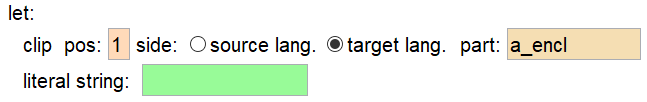
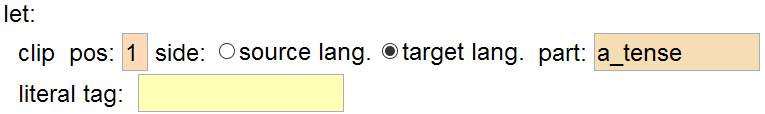
Insert a word How To

Changed region(s): [[0.0, 0.2647, 1.0, 1.0], [0.0, 0.0294, 0.0618, 0.2059]]

diff --git a/Doc/UserDoc.htm b/Doc/UserDoc.htm
@@ -77,9 +77,10 @@
                   <li><a href="#sAttribute">7.1.2&nbsp;How do I use the attribute element in the transfer rules?</a></li>
                   <li><a href="#sPatternMatch">7.1.3&nbsp;How does pattern matching work?</a></li>
                   <li><a href="#sDeleteWord">7.1.4&nbsp;How do I delete a word from the target output? (How do I prevent a source word from being transferred to the target text?)</a></li>
-                  <li><a href="#sDeleteAffix">7.1.5&nbsp;How do I delete an affix?</a></li>
-                  <li><a href="#sCondLogic">7.1.6&nbsp;How so I use conditional logic in a transfer rule? (How do I say if this ... then that?)</a></li>
-                  <li><a href="#sAgreement">7.1.7&nbsp;How do I handle noun agreement? (How do I get a target word or words to agree with a noun?)</a></li>
+                  <li><a href="#sInsertWord">7.1.5&nbsp;How do I insert a word into the target output? </a></li>
+                  <li><a href="#sDeleteAffix">7.1.6&nbsp;How do I delete an affix?</a></li>
+                  <li><a href="#sCondLogic">7.1.7&nbsp;How so I use conditional logic in a transfer rule? (How do I say if this ... then that?)</a></li>
+                  <li><a href="#sAgreement">7.1.8&nbsp;How do I handle noun agreement? (How do I get a target word or words to agree with a noun?)</a></li>
                </ul>
                <li><a href="#sOther">7.2&nbsp;Other How To&#8217;s</a></li>
                <ul>
@@ -1302,7 +1303,7 @@
                      </td>
                   </tr>
                </table>
-            </div>(Note: the statement in <a href="#xLet1">(38)</a> will always change the target language tag to <span style="font-family:Courier New; font-size:90%; font-style:normal; font-weight:bold; "><span style="font-family:Courier New; font-size:90%; color:#00B050; ">pst</span></span>, even if the input is not <span style="font-family:Courier New; font-size:90%; font-style:normal; font-weight:bold; "><span style="font-family:Courier New; font-size:90%; color:#00B050; ">ptcp_f_sg</span></span>. This is good enough for our current example, but for a description of how conditional logic works, see Section&nbsp;<a href="#sCondLogic">7.1.6</a>.<br><br></li>
+            </div>(Note: the statement in <a href="#xLet1">(38)</a> will always change the target language tag to <span style="font-family:Courier New; font-size:90%; font-style:normal; font-weight:bold; "><span style="font-family:Courier New; font-size:90%; color:#00B050; ">pst</span></span>, even if the input is not <span style="font-family:Courier New; font-size:90%; font-style:normal; font-weight:bold; "><span style="font-family:Courier New; font-size:90%; color:#00B050; ">ptcp_f_sg</span></span>. This is good enough for our current example, but for a description of how conditional logic works, see Section&nbsp;<a href="#sCondLogic">7.1.7</a>.<br><br></li>
          <li>Now test it in the <span style="font-family:Courier New; font-weight:bold; color:navy; ">Live Rule Tester Tool</span>. (Don&#8217;t forget to refresh the rules first!)
          </li>
       </ol>
@@ -1848,38 +1849,76 @@
       </p>
       <h3 style=""><a name="sPatternMatch"></a>7.1.3&nbsp;How does pattern matching work?
       </h3>
-      <p></p>
+      <p>The <span style="font-family:Courier New; font-weight:bold; color:navy; ">Apertium</span> transfer engine searches for patterns in your source text. The patterns it searches for are those defined for each rule you
+         have. Some patterns may be one word, some patterns may be multiple words. The transfer engine tries to match the longest patterns
+         first and then progressively goes to shorter and shorter patterns. This means a five-word pattern would be used before a three-word
+         pattern (assuming a set of words would match both patterns.) When there are multiple patterns of the same length, the first
+         one listed gets precedence. This means in some cases the order of your rules will be important. 
+      </p>
+      <p>The transfer engine searches for matches in your words in sequential order starting with the first word. It will never find
+         a match at some point in a text and then go back earlier in the text. 
+      </p>
+      <p>Another important concept is that the transfer engine processes words just once for whatever pattern is matched. After they
+         are processed, the words are not examined again for any other matches. In other words, patterns cannot apply in an overlapping
+         manner. For example, if you have a rule that matches <span style="font-style:italic; ">determiner-noun</span> and another one that matches <span style="font-style:italic; ">noun-adjective</span>, when a sentence of the form <span style="font-style:italic; ">determiner-noun-adjective</span> is processed. The engine uses the rule that is listed first and then discards the three words and continues on to other words.
+         The second rule does not get applied. Another way to describe it is to say that the engine processes words in distinct chunks.
+      </p>
+      <p>If the <span style="font-family:Courier New; font-weight:bold; color:navy; ">Apertium</span> transfer engine finds a match, it runs the action part of your rule. If the engine finds no match for a word, it does default
+         translation of it according to what is in the bilingual dictionary.
+      </p>
       <h3 style=""><a name="sDeleteWord"></a>7.1.4&nbsp;How do I delete a word from the target output? (How do I prevent a source word from being transferred to the target text?)
       </h3>
       <p>The short answer is don't output it. In other words, don't declare that it should be outputted into the target data stream.</p>
       <p>When you match two or more words in the <span style="font-family:Arial; font-size:80%; color:#006633; font-weight:bold; ">pattern</span> section of a transfer rule, you can choose to only list some of the words in the <span style="font-family:Arial; font-size:80%; color:#006633; font-weight:bold; ">output</span> section. This is exactly what we did in &#8220;<a href="#step1">Step 1</a>&#8221; of the tutorial. In <a href="#xOutput1">(35)</a> we only declared that the word in <span style="font-family:Arial; font-size:80%; color:#006633; font-weight:bold; ">position</span> 1 should be outputted.
       </p>
-      <h3 style=""><a name="sDeleteAffix"></a>7.1.5&nbsp;How do I delete an affix?
+      <h3 style=""><a name="sInsertWord"></a>7.1.5&nbsp;How do I insert a word into the target output? 
+      </h3>
+      <p>Naturally to add something to the target output, we need to add something to the <span style="font-family:Arial; font-size:80%; color:#006633; font-weight:bold; ">output</span> part of our transfer rule. And what goes in <span style="font-family:Arial; font-size:80%; color:#006633; font-weight:bold; ">output</span> part the of our transfer rule? Lexical units. We need to insert a lexical unit block under the <span style="font-family:Arial; font-size:80%; color:#006633; font-weight:bold; ">output</span> element of our transfer rule. The bare minimum we need for a lexical unit is the word-sense and the grammatical category.
+         If we are manually outputting a word-sense, we need to use a <span style="font-family:Arial; font-size:80%; color:#006633; font-weight:bold; ">literal string</span> element and the text needs to be of the form word1.2. Where 1 would be the homograph number (if there isn't one in FLEx,
+         use 1) and 2 would be the sense number. In this case the second sense of the word. <a href="#xInsertWord">(68)</a> shows how it might look. 
+      </p>
+      <div style="margin-left: 0.25in; margin-right: 0.25in">
+         <table>
+            <tr>
+               <td valign="top"><a name="xInsertWord">(68)</a></td>
+               <td>
+                  <table>
+                     <tr>
+                        <td><img style="Height:75%" src="Images/InsertWord.png"></td>
+                     </tr>
+                  </table>
+               </td>
+            </tr>
+         </table>
+      </div>
+      <p>If you have other lexical units that you will be outputting, remember to put a <span style="font-family:Arial; font-size:80%; color:#006633; font-weight:bold; ">blank space</span> element so that you get a space between your words. This is shown in <a href="#xLexUnitPron">(49)</a>. &#8220;<a href="#step4">Step 4</a>&#8221; of the transfer rules tutorial shows an example of inserting a word into the target output.
+      </p>
+      <h3 style=""><a name="sDeleteAffix"></a>7.1.6&nbsp;How do I delete an affix?
       </h3>
       <p>There are two methods for deleting an affix. You can either set the value for that affix (attribute) to blank or you can not
          declare that the affix (attribute) gets outputted.
       </p>
       <ol style="list-style-type:decimal; ">
-         <li>Method 1. Use the <span style="font-family:Arial; font-size:80%; color:#006633; font-weight:bold; ">let</span> element to set an attribute's value to blank. See <a href="#xLetBlank">(68)</a>.
+         <li>Method 1. Use the <span style="font-family:Arial; font-size:80%; color:#006633; font-weight:bold; ">let</span> element to set an attribute's value to blank. See <a href="#xLetBlank">(69)</a>.
             <div style="margin-left: 0.25in; margin-right: 0.25in">
                <table>
                   <tr>
-                     <td valign="top"><a name="xLetBlank">(68)</a></td>
+                     <td valign="top"><a name="xLetBlank">(69)</a></td>
                      <td>
                         <table>
                            <tr>
-                              <td><img style="Height:75%" src="Images/LetBlank.PNG"></td>
+                              <td><img style="Height:63%" src="Images/LetBlank.PNG"></td>
                            </tr>
                         </table>
                      </td>
                   </tr>
                </table>
-            </div>Here we are overriding whatever is in the enclitic attribute (a_encl) with a blank string. Whenever the enclitic affix gets
-            outputted, it will be outputted as nothing. As an example, in <a href="#xOutputWhole">(69)</a> the whole word is outputted with all its attributes.
+            </div>Here we are overriding whatever is in the tense attribute (a_tense) with a blank string. Whenever the tense affix gets outputted,
+            it will be outputted as nothing. As an example, in <a href="#xOutputWhole">(70)</a> the whole word is outputted with all its attributes.
             <div style="margin-left: 0.25in; margin-right: 0.25in">
                <table>
                   <tr>
-                     <td valign="top"><a name="xOutputWhole">(69)</a></td>
+                     <td valign="top"><a name="xOutputWhole">(70)</a></td>
                      <td>
                         <table>
                            <tr>
@@ -1896,7 +1935,7 @@
             <div style="margin-left: 0.25in; margin-right: 0.25in">
                <table>
                   <tr>
-                     <td valign="top"><a name="xOutMultAffixes">(70)</a></td>
+                     <td valign="top"><a name="xOutMultAffixes">(71)</a></td>
                      <td>
                         <table>
                            <tr>
@@ -1906,15 +1945,15 @@
                      </td>
                   </tr>
                </table>
-            </div>In <a href="#xOutMultAffixes">(70)</a> you can see that the lemma is outputted and then the grammatical category and then two attribute. The disadvantage of this
-            method is that you have to explicitly declare every possible attribute that could occur. Where as in <a href="#xOutputWhole">(69)</a> in Method 1, you just have to output the whole word.
+            </div>In <a href="#xOutMultAffixes">(71)</a> you can see that the lemma is outputted and then the grammatical category and then two attribute. The disadvantage of this
+            method is that you have to explicitly declare every possible attribute that could occur. Where as in <a href="#xOutputWhole">(70)</a> in Method 1, you just have to output the whole word.
          </li>
       </ol>
-      <h3 style=""><a name="sCondLogic"></a>7.1.6&nbsp;How so I use conditional logic in a transfer rule? (How do I say if this ... then that?)
+      <h3 style=""><a name="sCondLogic"></a>7.1.7&nbsp;How so I use conditional logic in a transfer rule? (How do I say if this ... then that?)
       </h3>
       <p>In the transfer rules you have the ability to use conditional logic. Please watch this <a href="https://drive.google.com/open?id=1gu5xDKdDzPu4yvFui2xakhnwAjNmF2Rm">video</a> for an explanation.
       </p>
-      <h3 style=""><a name="sAgreement"></a>7.1.7&nbsp;How do I handle noun agreement? (How do I get a target word or words to agree with a noun?)
+      <h3 style=""><a name="sAgreement"></a>7.1.8&nbsp;How do I handle noun agreement? (How do I get a target word or words to agree with a noun?)
       </h3>
       <p>One main strategy for getting words to agree with a noun, is to make sure features are assigned to the noun and then in the
          transfer rules make the needed adjustment to the words you output depending on what the feature values (or class values) are.
@@ -1933,12 +1972,12 @@
       </p>
       <p>The bilingual lexicon is a mapping of source word-senses to target word-senses. There are no inflectional affixes present
          in the bilingual lexicon, although there could be inflectional features or classes present. An example portion of a bilingual
-         lexicon is shown in <a href="#xBilingEntries">(71)</a>. You can view the bilingual lexicon by double-clicking on the file <span style="font-style:italic; ">bilingual.dix</span> in the <span style="font-family:Tahoma; font-size:80%; font-style:normal; font-weight:normal; ">FlexTools\Output</span> folder. Both the <span style="font-style:italic; ">replace.dix</span> and <span style="font-style:italic; ">bilingual.dix</span> files are XML files and will load automatically in <span style="font-family:Courier New; font-weight:bold; color:navy; ">XMLmind XML Editor</span>.
+         lexicon is shown in <a href="#xBilingEntries">(72)</a>. You can view the bilingual lexicon by double-clicking on the file <span style="font-style:italic; ">bilingual.dix</span> in the <span style="font-family:Tahoma; font-size:80%; font-style:normal; font-weight:normal; ">FlexTools\Output</span> folder. Both the <span style="font-style:italic; ">replace.dix</span> and <span style="font-style:italic; ">bilingual.dix</span> files are XML files and will load automatically in <span style="font-family:Courier New; font-weight:bold; color:navy; ">XMLmind XML Editor</span>.
       </p>
       <div style="margin-left: 0.25in; margin-right: 0.25in">
          <table>
             <tr>
-               <td valign="top"><a name="xBilingEntries">(71)</a></td>
+               <td valign="top"><a name="xBilingEntries">(72)</a></td>
                <td>
                   <table>
                      <tr>
@@ -1950,12 +1989,12 @@
          </table>
       </div>
       <p>In order to have a word map differently than what is in the bilingual lexicon, you need to add a line to the replacement file.
-         If you double-click on <span style="font-style:italic; ">replace.dix</span> you will see something like <a href="#xReplacement">(72)</a>.
+         If you double-click on <span style="font-style:italic; ">replace.dix</span> you will see something like <a href="#xReplacement">(73)</a>.
       </p>
       <div style="margin-left: 0.25in; margin-right: 0.25in">
          <table>
             <tr>
-               <td valign="top"><a name="xReplacement">(72)</a></td>
+               <td valign="top"><a name="xReplacement">(73)</a></td>
                <td>
                   <table>
                      <tr>
@@ -1970,12 +2009,12 @@
          for appending new entries to the bilingual lexicon. We are interested in doing the latter. Note, we can&#8217;t edit the bilingual
          dictionary file directly because that gets generated automatically by <span style="font-family:Courier New; font-weight:bold; color:navy; "> FLExTrans</span>.
       </p>
-      <p>Let's say that we want to map the past tense of the entry for <span style="font-family:Courier New; font-size:90%; font-style:normal; font-weight:bold; ">lieben</span> shown in <a href="#xBilingEntries">(71)</a> to a different Swedish word, we change the replacement file to something like <a href="#xRepChanged">(73)</a>.
+      <p>Let's say that we want to map the past tense of the entry for <span style="font-family:Courier New; font-size:90%; font-style:normal; font-weight:bold; ">lieben</span> shown in <a href="#xBilingEntries">(72)</a> to a different Swedish word, we change the replacement file to something like <a href="#xRepChanged">(74)</a>.
       </p>
       <div style="margin-left: 0.25in; margin-right: 0.25in">
          <table>
             <tr>
-               <td valign="top"><a name="xRepChanged">(73)</a></td>
+               <td valign="top"><a name="xRepChanged">(74)</a></td>
                <td>
                   <table>
                      <tr>
